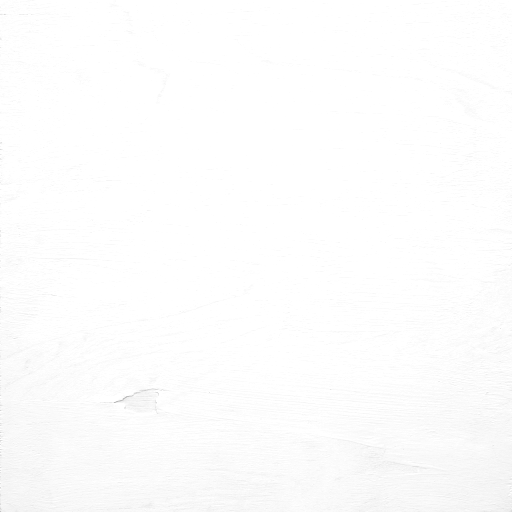
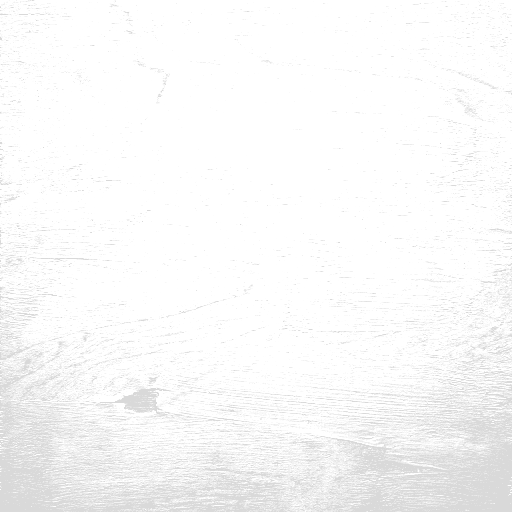
Deploy Eeri v11 — the machines are painted wood
Two independent causes kept the excavator smooth in a crafted world: an
imported GLB carries its own UV atlas so a repeating map stretched one
copy of the brushwork over the whole machine (now tiled across the atlas
on a cloned texture), and the placeholder machines built boxes directly
rather than through craftBox so they got the material but no UV density.

And detailmap.mjs scaled contrast about the mean, which preserves the
source photo's contrast — the white-painted balsa board gave a +/-4% map
however high the strength went. It histogram-stretches now, so contrast
is a property of the request. Felt and balsa only became visible at all
after this.

Gate: 134 checks + 29 room prover.

Claude-Session: https://claude.ai/code/session_01TFzzRZ7iM5B2SyFcrWZyn9

diff --git a/eeri/js/pieces.js b/eeri/js/pieces.js
@@ -13,14 +13,14 @@
 
 import * as THREE from 'three';
 import { PAL, mix } from './palette.js?v=2';
-import { craftMat, craftBox } from './craft.js?v=2';
+import { craftMat, craftBox } from './craft.js?v=3';
 
 export function buildBankModel(rows = 3, width = 5) {
   const root = new THREE.Group();
   const nodes = {};
   const M = (c) => craftMat(c, 'balsa');
   const box = (parent, w, h, d, c, x, y, z) => {
-    const m = new THREE.Mesh(new THREE.BoxGeometry(w, h, d), M(c));
+    const m = craftBox(w, h, d, M(c));
     m.position.set(x, y, z); parent.add(m); return m;
   };
 
@@ -67,7 +67,7 @@ export function buildGirderModel(len = 9.8) {
   const nodes = {};
   const M = (c) => craftMat(c, 'balsa');
   const box = (parent, w, h, d, c, x, y, z) => {
-    const m = new THREE.Mesh(new THREE.BoxGeometry(w, h, d), M(c));
+    const m = craftBox(w, h, d, M(c));
     m.position.set(x, y, z); parent.add(m); return m;
   };
 
@@ -219,7 +219,7 @@ export function buildWallModel(rows = 4, width = 5) {
   const nodes = {};
   const M = (c) => craftMat(c, 'balsa');
   const box = (parent, w, h, d, c, x, y, z) => {
-    const m = new THREE.Mesh(new THREE.BoxGeometry(w, h, d), M(c));
+    const m = craftBox(w, h, d, M(c));
     m.position.set(x, y, z); parent.add(m); return m;
   };
   const BRICK = mix(PAL.EARTH[1], PAL.HAZARD, 0.32);

diff --git a/eeri/js/assets.js b/eeri/js/assets.js
@@ -47,7 +47,16 @@ const ROLE = {
 function grainPaint(mats) {
   getTexture('balsa').then((tex) => {
     if (!tex) return;
-    for (const m of mats) { m.map = tex; m.needsUpdate = true; }
+    // An imported GLB carries its OWN UV atlas — 0…1 across the whole model —
+    // so `craftBox`'s world-space trick is not available and a plain repeating
+    // map simply stretches one copy of the brushwork over the entire machine,
+    // which is why the excavator still read as smooth plastic. Tile it across
+    // the atlas instead. Cloned per call: repeat lives on the Texture, and
+    // the cached one is shared with every other surface asking for balsa.
+    const t = tex.clone();
+    t.needsUpdate = true;
+    t.repeat.set(9, 9);
+    for (const m of mats) { m.map = t; m.needsUpdate = true; }
   });
 }
 

diff --git a/eeri/js/excavator.js b/eeri/js/excavator.js
@@ -10,7 +10,7 @@
 
 import * as THREE from 'three';
 import { PAL, mix } from './palette.js?v=2';
-import { craftMat, craftBox } from './craft.js?v=2';
+import { craftMat, craftBox } from './craft.js?v=3';
 
 export function buildExcavatorModel(tint = 0) {
   const T = (c) => (tint > 0 ? mix(c, PAL.SKY_PALE, tint) : c);
@@ -18,7 +18,7 @@ export function buildExcavatorModel(tint = 0) {
   const nodes = {};
   const M = (c) => craftMat(T(c), 'balsa');   // painted wood (§3.3)
   const box = (parent, w, h, d, c, x, y, z) => {
-    const m = new THREE.Mesh(new THREE.BoxGeometry(w, h, d), M(c));
+    const m = craftBox(w, h, d, M(c));
     m.position.set(x, y, z); parent.add(m); return m;
   };
   const cyl = (parent, r, h, c, x, y, z, seg = 10) => {

diff --git a/eeri/js/crane.js b/eeri/js/crane.js
@@ -14,7 +14,7 @@
 
 import * as THREE from 'three';
 import { PAL, mix } from './palette.js?v=2';
-import { craftMat, craftBox } from './craft.js?v=2';
+import { craftMat, craftBox } from './craft.js?v=3';
 
 export function buildCraneModel(tint = 0) {
   const T = (c) => (tint > 0 ? mix(c, PAL.SKY_PALE, tint) : c);
@@ -22,7 +22,7 @@ export function buildCraneModel(tint = 0) {
   const nodes = {};
   const M = (c) => craftMat(T(c), 'balsa');   // painted wood (§3.3)
   const box = (parent, w, h, d, c, x, y, z) => {
-    const m = new THREE.Mesh(new THREE.BoxGeometry(w, h, d), M(c));
+    const m = craftBox(w, h, d, M(c));
     m.position.set(x, y, z); parent.add(m); return m;
   };
   const cyl = (parent, r, h, c, x, y, z, seg = 10) => {

diff --git a/eeri/js/robots.js b/eeri/js/robots.js
@@ -12,7 +12,7 @@
 
 import * as THREE from 'three';
 import { PAL, mix } from './palette.js?v=2';
-import { craftMat, craftBox } from './craft.js?v=2';
+import { craftMat, craftBox } from './craft.js?v=3';
 
 const NOTICE = 0.35, WIND = 0.45, LUNGE = 0.5, RECOVER = 0.7;
 const SEE = 5.2, WALK = 1.5, LUNGE_SPEED = 6.4;
@@ -21,7 +21,7 @@ function buildRobot() {
   const g = new THREE.Group();
   const M = (c) => craftMat(c, 'balsa');
   const box = (w, h, d, c, x, y, z) => {
-    const m = new THREE.Mesh(new THREE.BoxGeometry(w, h, d), M(c));
+    const m = craftBox(w, h, d, M(c));
     m.position.set(x, y, z); g.add(m); return m;
   };
   // squat, wide, one exaggerated feature: the eye. Machine yellow says it

diff --git a/eeri/js/main.js b/eeri/js/main.js
@@ -23,8 +23,8 @@ import { buildCraneModel, Crane } from './crane.js?v=1';
 import { Robot, SteamVent } from './robots.js?v=1';
 import { WreckingBall } from './hazards.js?v=1';
 import { AudioKit } from './audio.js?v=2';
-import { loadManifest, getModel, getPiece } from './assets.js?v=3';
-import { craftMat } from './craft.js?v=2';
+import { loadManifest, getModel, getPiece } from './assets.js?v=4';
+import { craftMat } from './craft.js?v=3';
 
 const FOV = 24;   // the dolly distance is the camera director's (js/camera.js)
 const REDUCED = matchMedia('(prefers-reduced-motion: reduce)').matches;

diff --git a/eeri/index.html b/eeri/index.html
@@ -78,7 +78,7 @@
 </div>
 <div id="boot">EERI</div>
 <script type="module" src="../hub/shell.js?v=31"></script>
-<script type="module" src="./js/main.js?v=4"></script>
+<script type="module" src="./js/main.js?v=5"></script>
 <script type="module">
   // bottom-right: the HOME button owns top-left and the HUD owns top-right.
   // Under a thumb that corner also holds the jump button (#tJ, 62px at

diff --git a/eeri/js/craft.js b/eeri/js/craft.js
@@ -31,7 +31,7 @@
 // Adding a material is a manifest entry plus a name here. Nothing else.
 
 import * as THREE from 'three';
-import { getTexture } from './assets.js?v=3';
+import { getTexture } from './assets.js?v=4';
 
 // world units per texture repeat, per material — a felt nap is fine and a
 // card flute is coarse, so they do not share a scale

diff --git a/eeri/js/level.js b/eeri/js/level.js
@@ -11,7 +11,7 @@
 
 import * as THREE from 'three';
 import { PAL, mix } from './palette.js?v=2';
-import { craftMat, craftBox, craft } from './craft.js?v=2';
+import { craftMat, craftBox, craft } from './craft.js?v=3';
 
 import { ROOMS } from './rooms.js?v=1';
 import { compile, W, H, SOLID_CHARS, GROUND } from './parts.js?v=1';

diff --git a/eeri/js/hazards.js b/eeri/js/hazards.js
@@ -9,7 +9,7 @@
 
 import * as THREE from 'three';
 import { PAL } from './palette.js?v=2';
-import { craftMat, craftBox } from './craft.js?v=2';
+import { craftMat, craftBox } from './craft.js?v=3';
 
 // black/yellow chevrons — the one danger language, readable in greyscale
 function chevronTexture() {

diff --git a/eeri/js/layers.js b/eeri/js/layers.js
@@ -24,7 +24,7 @@
 
 import * as THREE from 'three';
 import { PAL, LAYER_Z, LAYER_TINT, mix } from './palette.js?v=2';
-import { getLayerTexture } from './assets.js?v=3';
+import { getLayerTexture } from './assets.js?v=4';
 
 export const PPU = 30; // canvas pixels per world unit
 

diff --git a/eeri/VERSIONS.md b/eeri/VERSIONS.md
@@ -1,5 +1,37 @@
 # EERI — versions
 
+## v11 — 2026-08-13 — the machines are painted wood, and the map tool is fixed
+
+**The excavator was still smooth plastic in a crafted world**, and chasing it
+found two independent causes plus a bug in the tool that makes every map.
+
+1. **An imported GLB carries its own UV atlas.** `craftBox`'s world-space UV
+   trick is only available to geometry we build, so on a live model a
+   repeating map stretched ONE copy of the brushwork across the whole
+   machine. The paint path now tiles across the atlas explicitly (repeat 9),
+   on a cloned texture — repeat lives on the Texture, and the cached one is
+   shared with every other surface asking for balsa.
+2. **The placeholder machines built boxes directly.** `excavator.js`,
+   `crane.js`, `pieces.js` and `robots.js` each had a local
+   `new THREE.Mesh(new THREE.BoxGeometry(...), M(c))`, which gets the shared
+   material but none of the UV density. All four route through `craftBox`
+   now.
+3. **`detailmap.mjs` scaled contrast about the MEAN**, which preserves the
+   source photo's own contrast. That is fine for corrugated card (luminance
+   40…230) and useless for a white-painted board (230…250): the balsa map
+   came out ±4% however high the strength went. It does a **histogram
+   stretch** now — 5th to 95th percentile onto a fixed band — so a map's
+   contrast is a property of the REQUEST, not of how well lit the source
+   happened to be. Every material was rebuilt through it; felt and balsa
+   only became visible at all after this.
+
+The lesson generalises past this project: **normalising by mean preserves
+the source's contrast; normalising by range sets it.** A tool that takes a
+"strength" argument and ignores it for low-contrast inputs is worse than one
+with no argument, because it looks like it is working.
+
+Gate: 134 checks + 29 room prover.
+
 ## v10 — 2026-08-13 — a material KIT, not cardboard everywhere
 
 **Crafted World is a kit of materials and the first pass used card for all of
